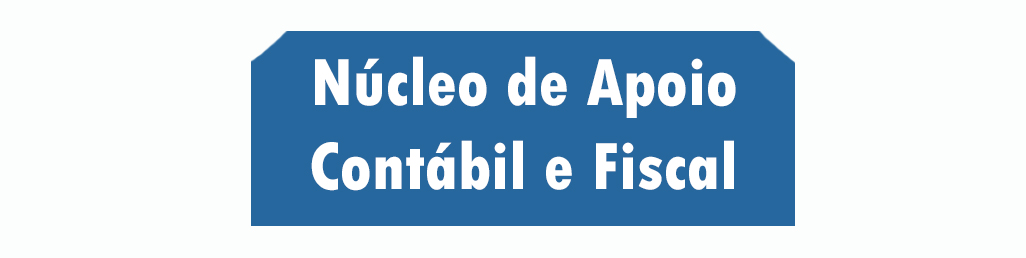
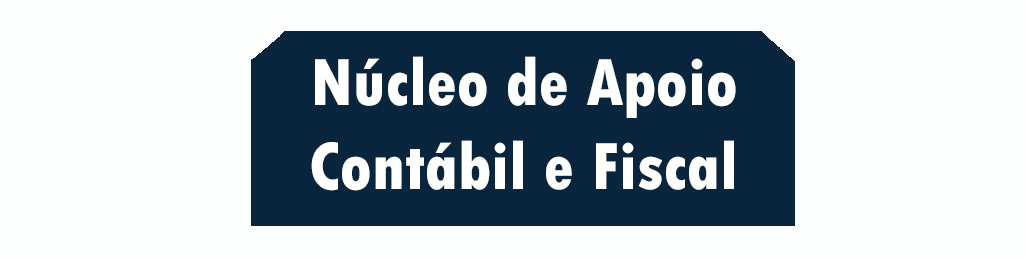
Changed Image color;

diff --git a/styles/index.css b/styles/index.css
@@ -27,7 +27,7 @@
 
 .container_menu_interno {
     align-items: center;
-    background-color: var(--azul-escuro);
+    background-color: var(--azul-claro);
     display: flex;
     height: 76px;
     justify-content: space-evenly;
@@ -39,7 +39,6 @@
 
 .btn_menu_interno {
     align-items: center;
-    background-color: var(--azul-escuro);
     border: none;
     border-radius: 0;
     color: var(--branco);
@@ -49,12 +48,6 @@
     justify-content: space-evenly;
     margin: 0 auto;
     width: 513px;
-}
-
-.btn_menu_interno:hover {
-    background-color: var(--azul-claro);
-    color: white;
-
 }
 
 .container_avaliacao-index {
